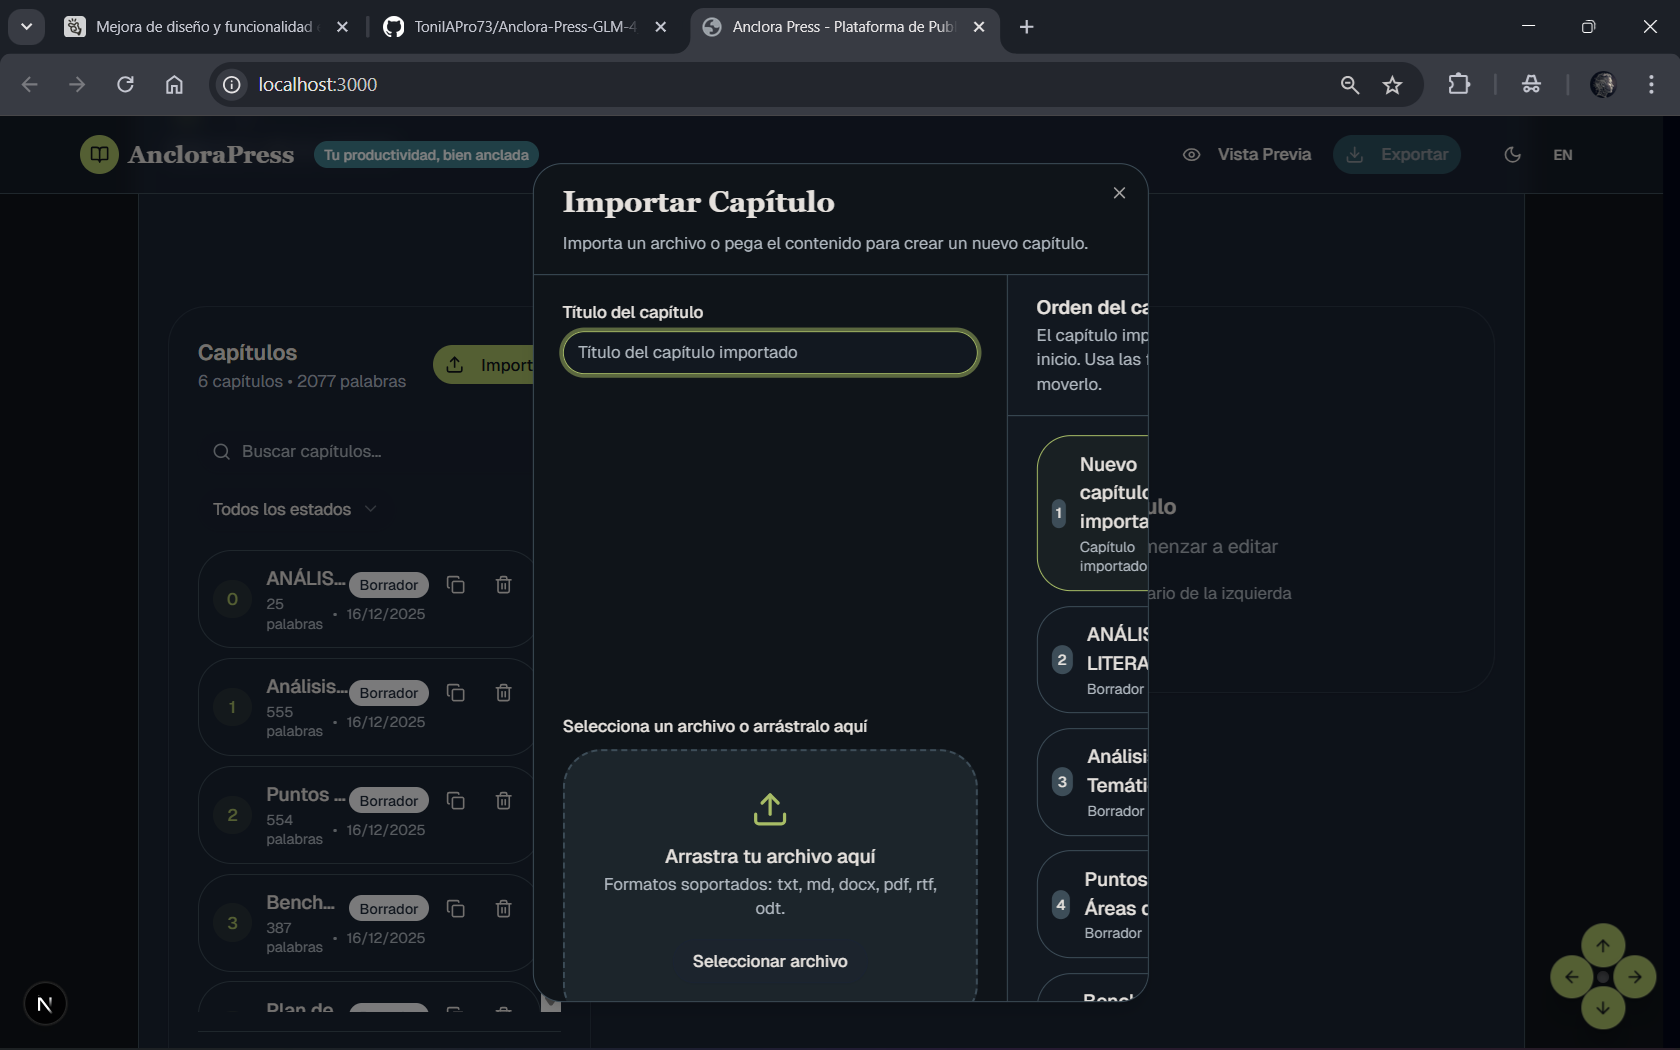
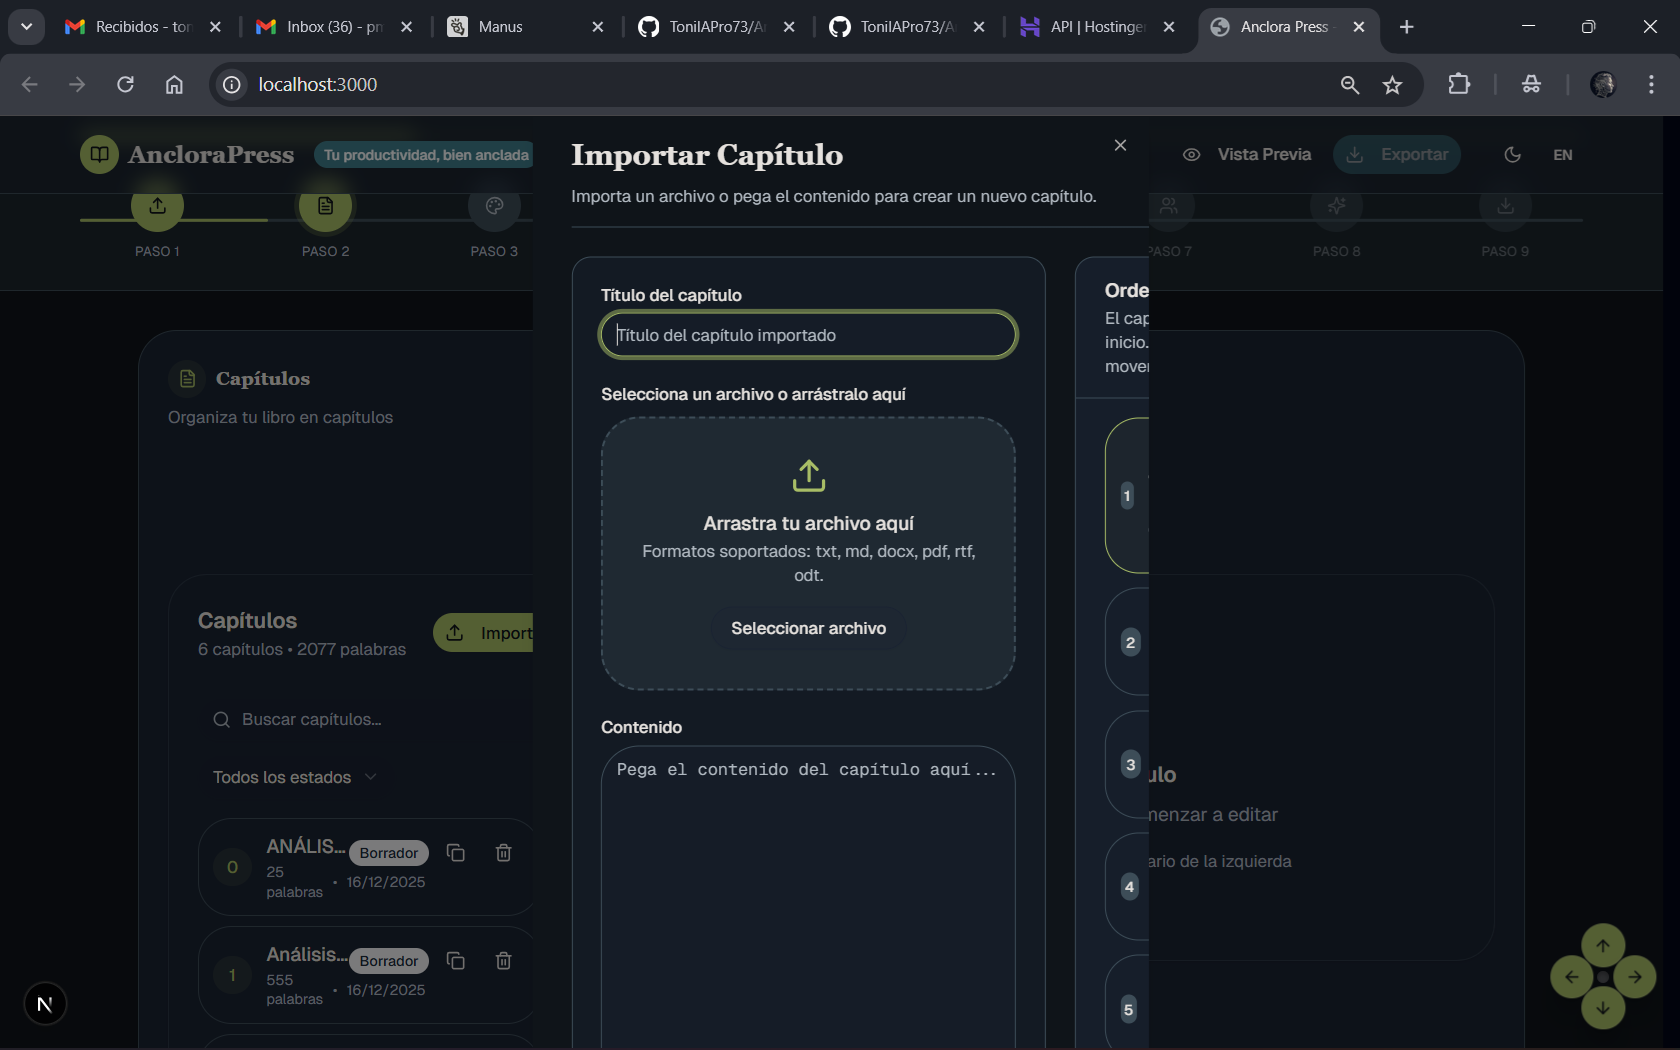
• El overlay ahora sí ocupa literalmente toda la app: DialogContent sigue siendo w-screen h-   screen, y eliminé el contenedor con max-w-7xl para que el contenido se estire al ancho   completo (div interior pasa a w-full con solo padding lateral para que no toque los bordes).   Comprueba de nuevo en

diff --git a/src/components/chapter-editor.tsx b/src/components/chapter-editor.tsx
@@ -369,7 +369,7 @@ export default function ChapterEditor({
                     </Button>
                   </DialogTrigger>
                   <DialogContent className="w-screen h-screen p-0 sm:rounded-none border-none bg-background overflow-hidden">
-                    <div className="flex h-full flex-col max-w-7xl mx-auto w-full px-4 sm:px-8 py-4">
+                    <div className="flex h-full flex-col w-full px-4 sm:px-10 py-6">
                       <DialogHeader className="pb-4 border-b border-border">
                         <DialogTitle className="text-2xl font-semibold font-serif">
                           {mounted && t("chapter.importDialog")}
